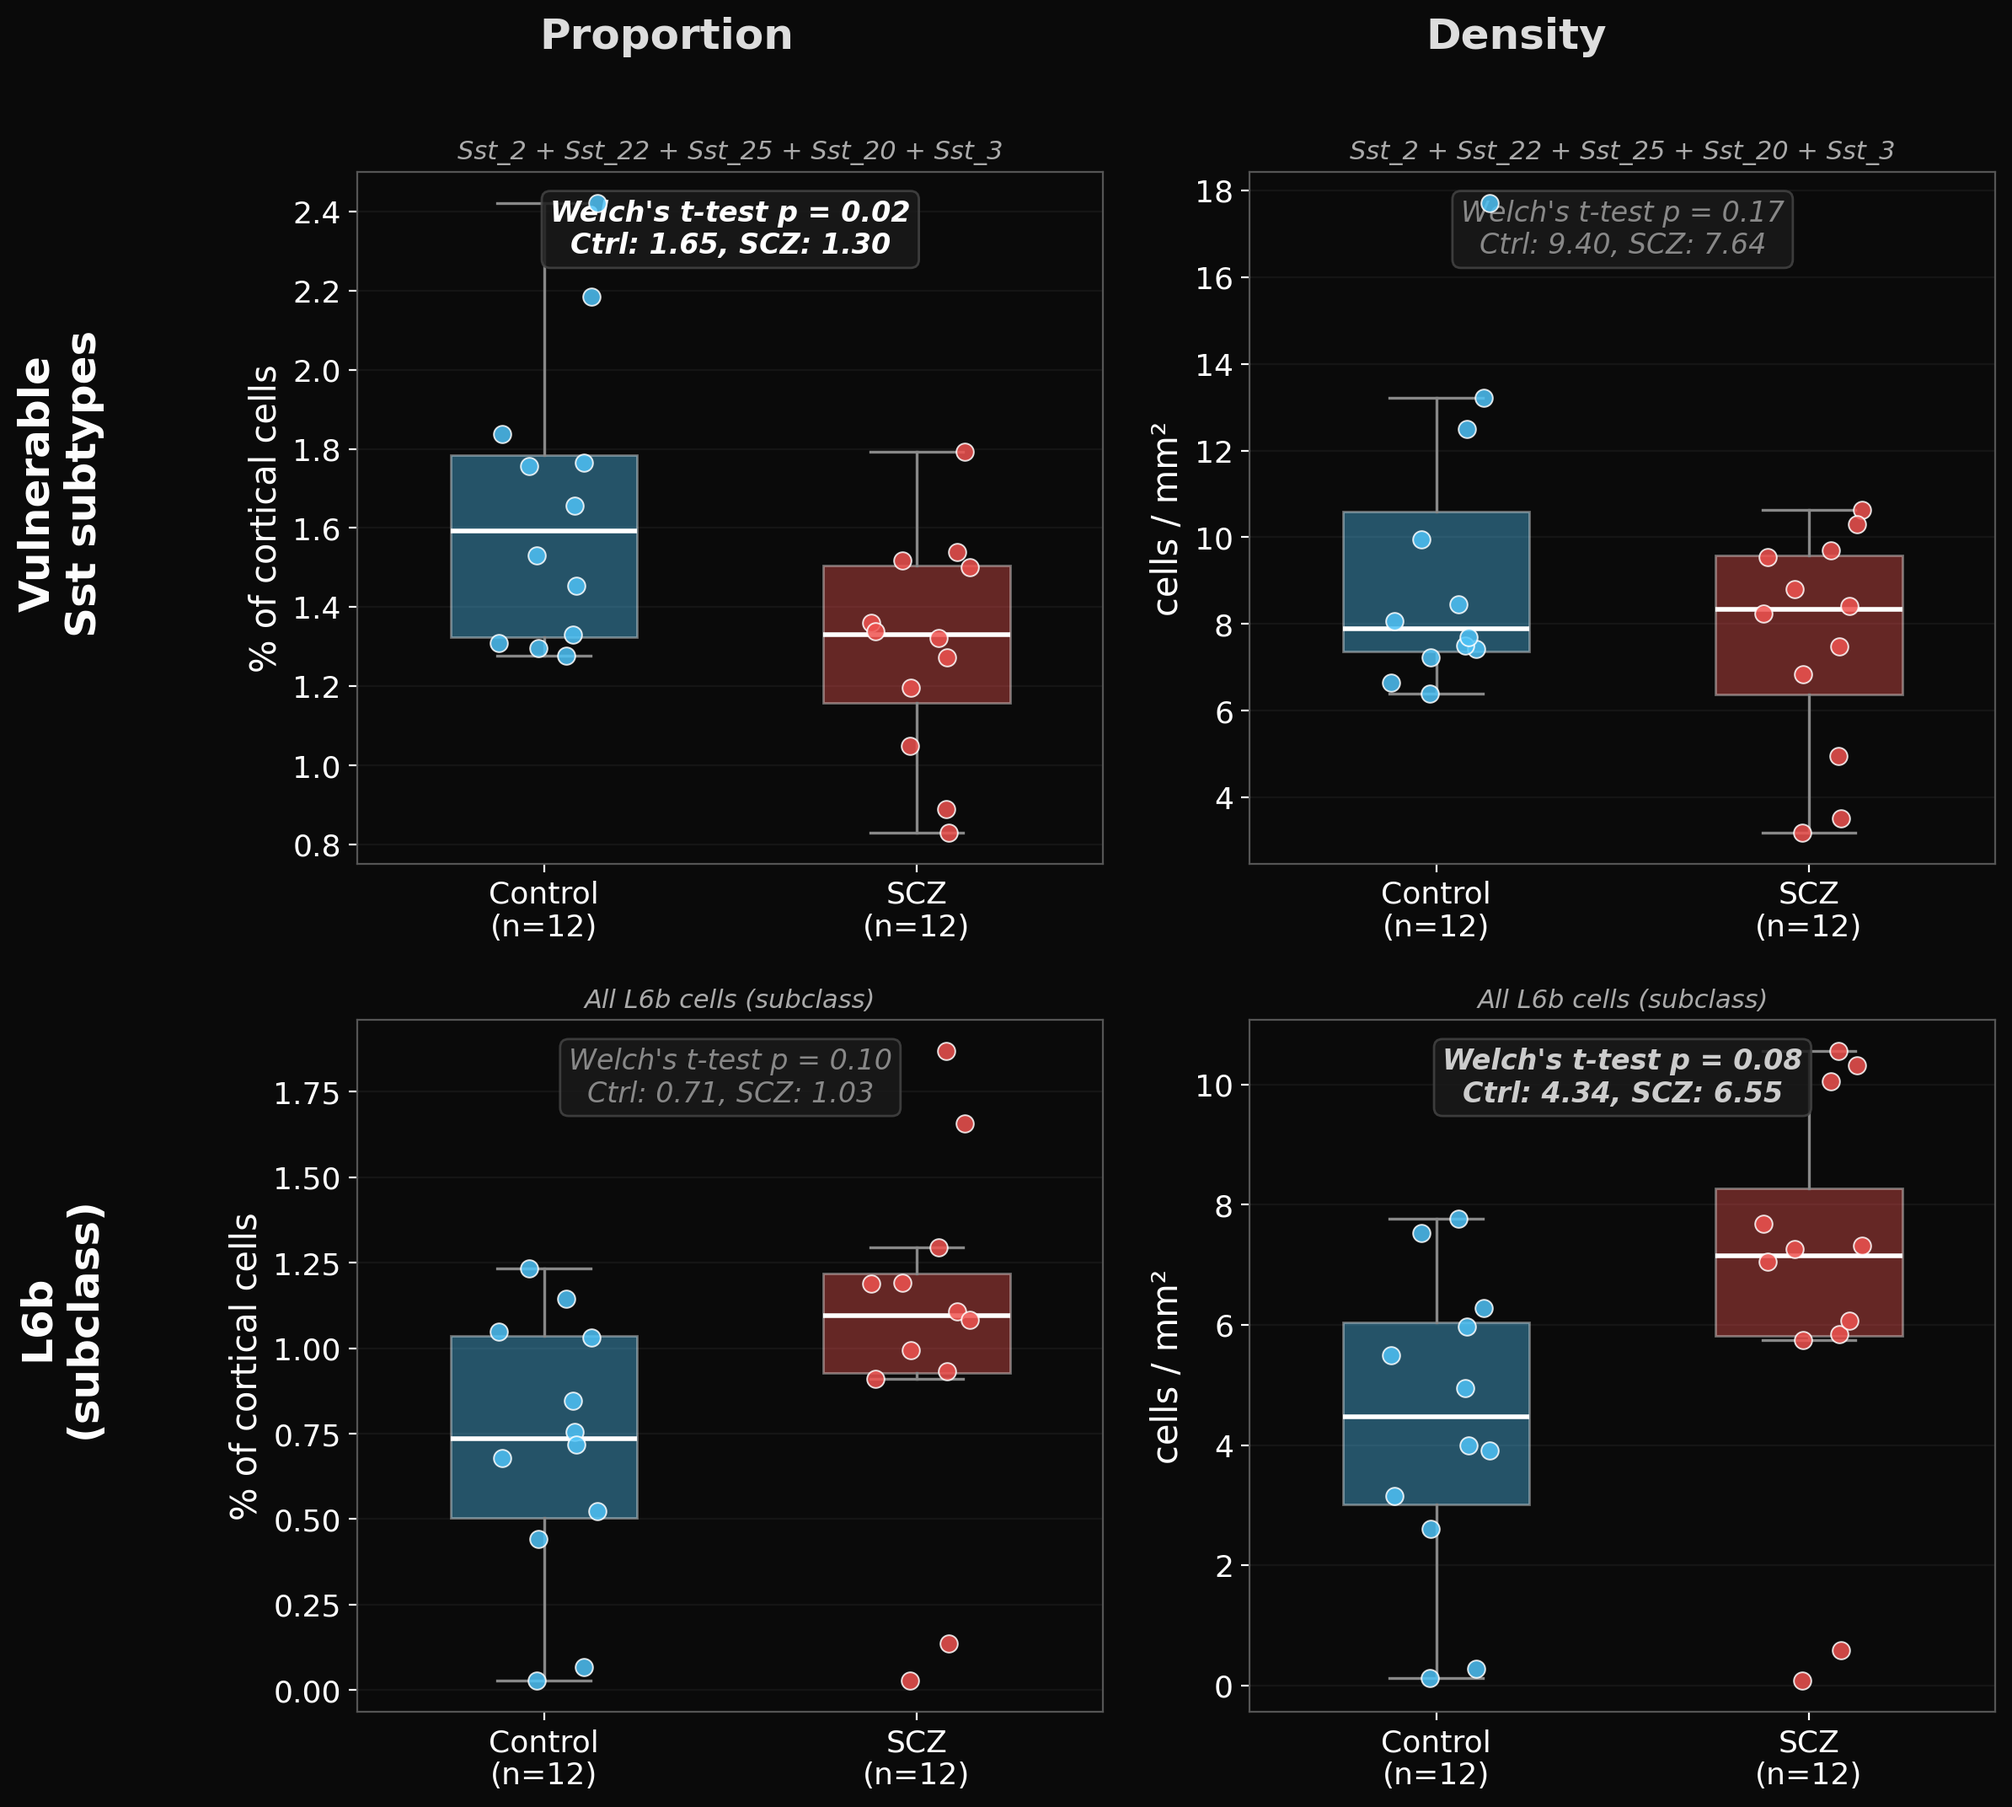
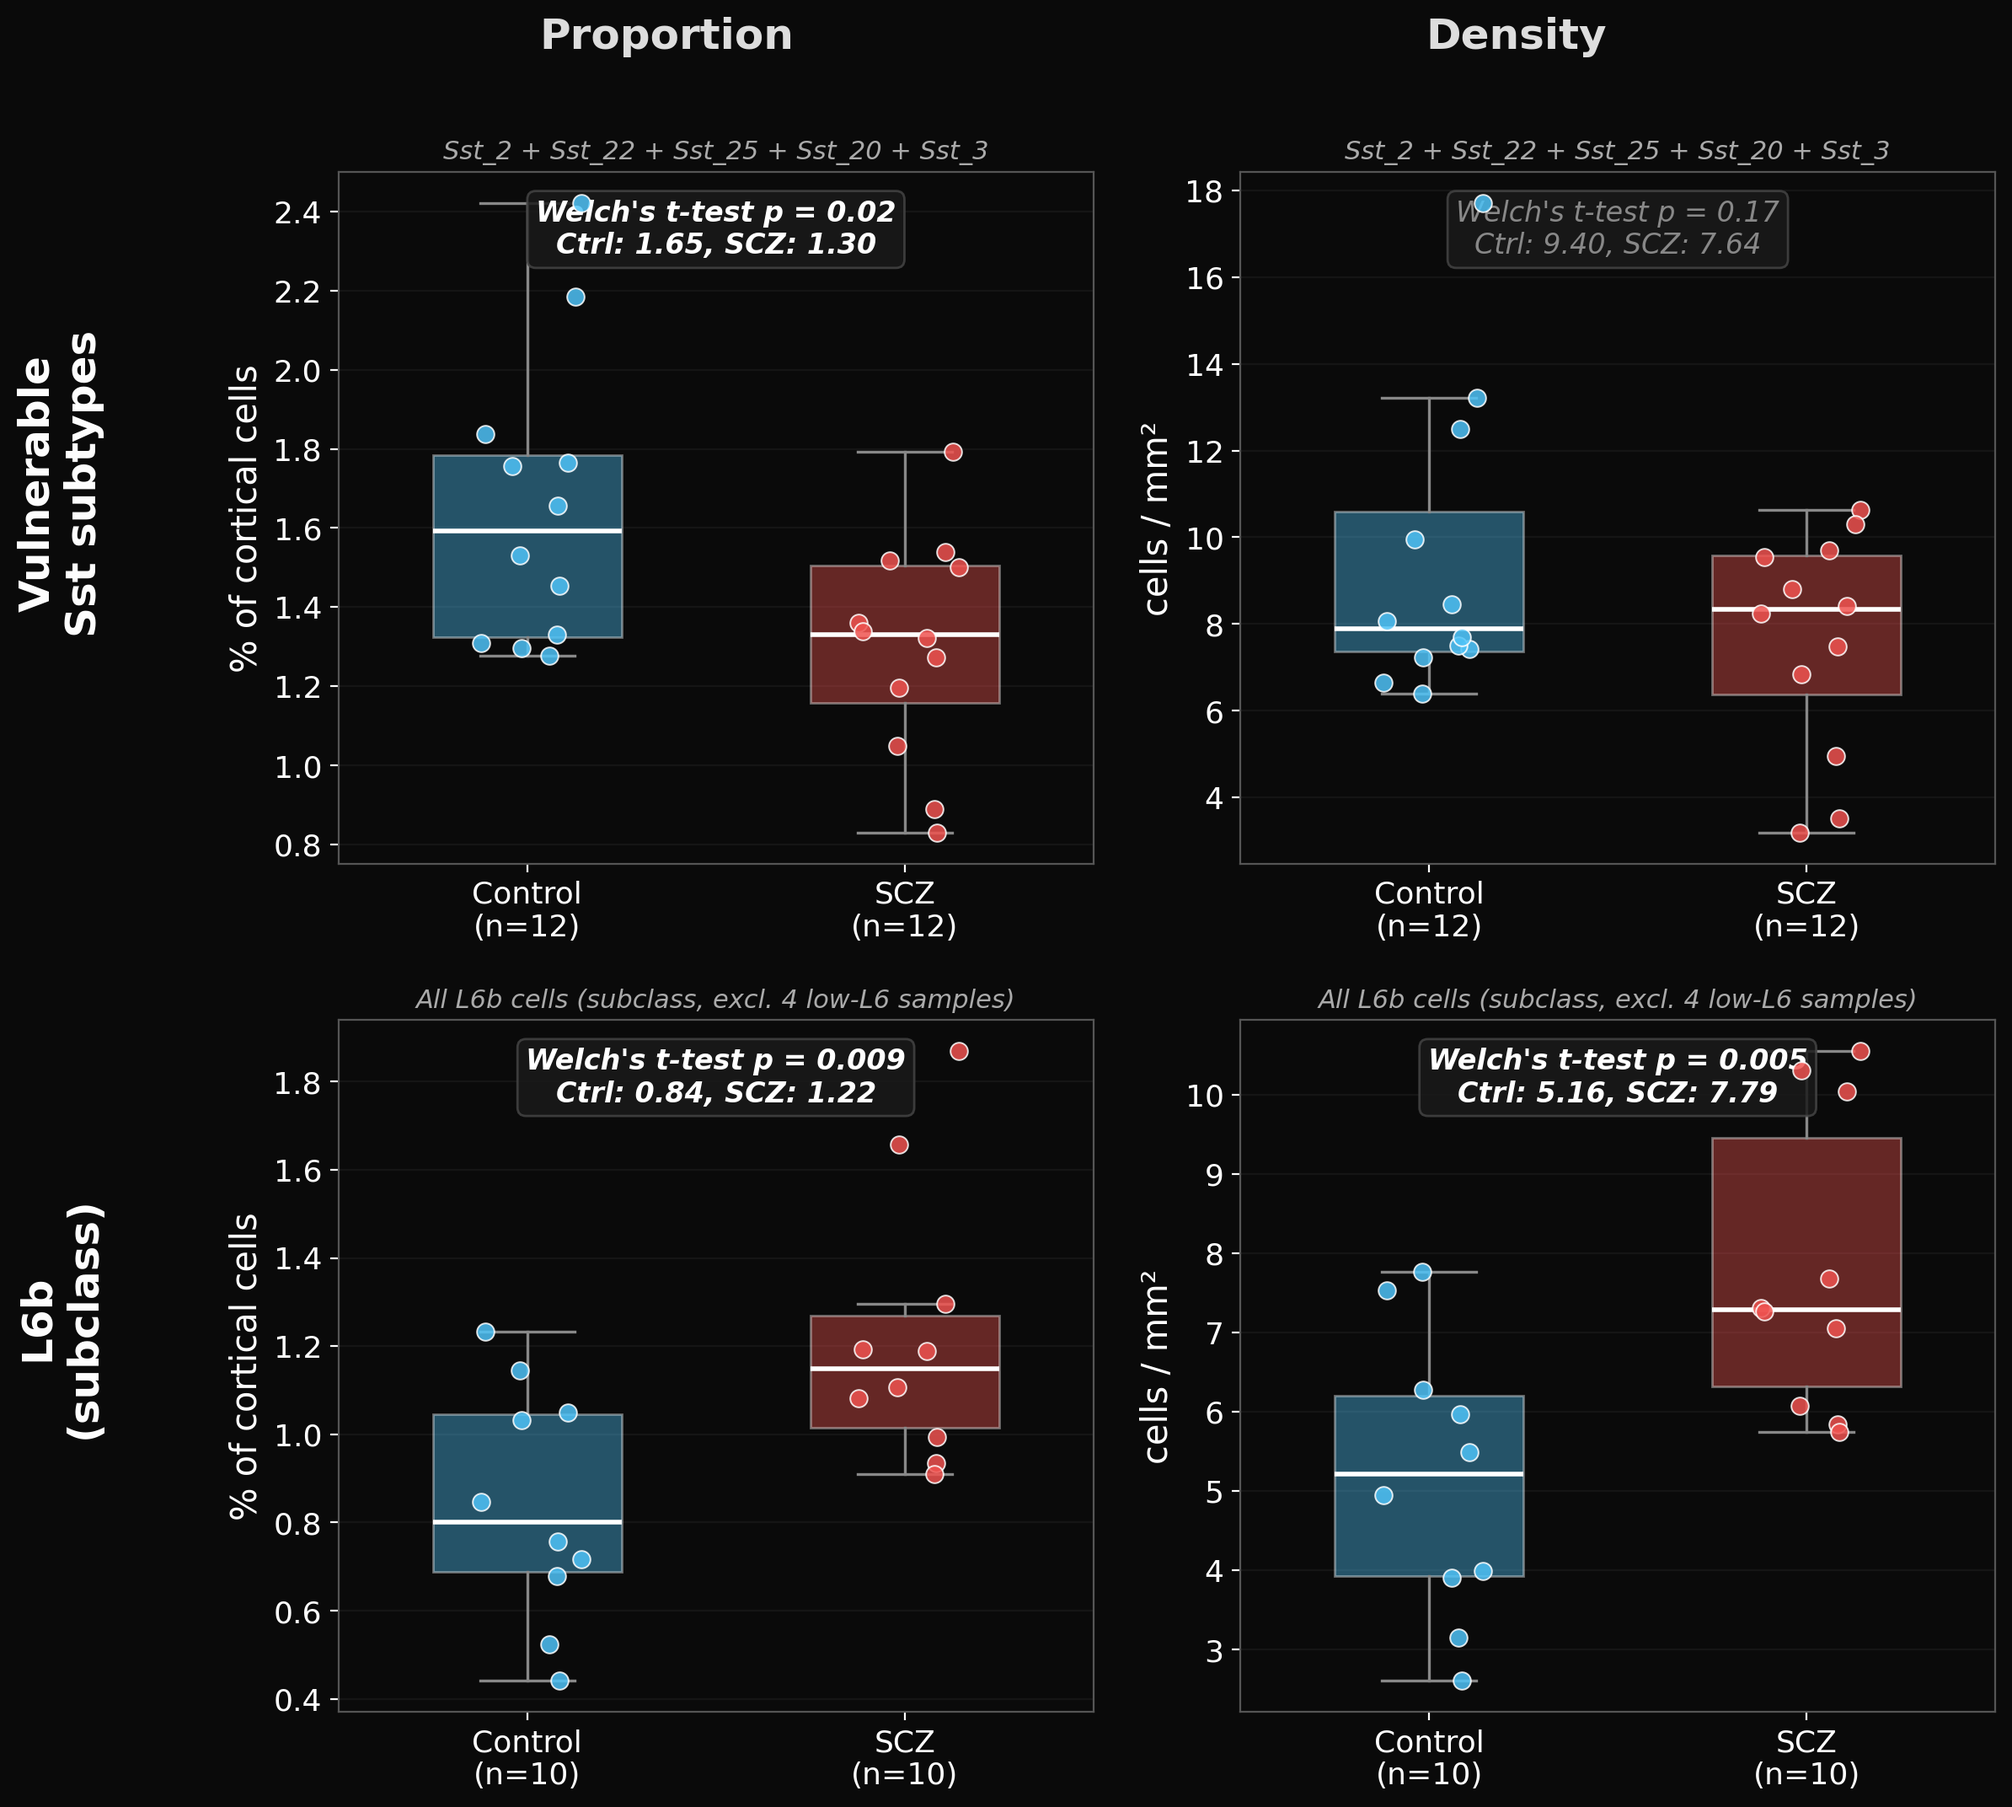
Add Sst_25 spatial plot, exclude low-L6 samples from L6b boxplots
- New Sst_25-only spatial plot with median-representative samples
  (Control: Br5400, Br5314; SCZ: Br6496, Br6437)
- Exclude 4 samples with <3% L6 cells from L6b aggregated boxplots
  (Br2039, Br5973, Br2719, Br5314 lack deep cortex coverage)
- L6b effect strengthens: proportion p=0.009, density p=0.005 (n=10/group)
- Remove incorrect Br2039 exclusion claim from README

diff --git a/code/analysis/plot_sst25_spatial.py b/code/analysis/plot_sst25_spatial.py
@@ -1,0 +1,137 @@
+#!/usr/bin/env python3
+"""
+Sst_25 spatial plot with layer shading for cortical context.
+
+Shows only Sst_25 cells in median-representative samples to illustrate
+the depletion of this specific supertype in SCZ.
+
+Representative samples are chosen as closest to group median Sst_25
+proportion:
+  Control median = 0.199%: Br5400 (0.203%, d=0.005), Br5314 (0.194%, d=0.005)
+  SCZ median     = 0.083%: Br6496 (0.058%, d=0.025), Br6437 (0.107%, d=0.025)
+
+Output: output/presentation/slide_sst25_spatial_layershading.png
+"""
+
+import os
+import matplotlib.pyplot as plt
+import matplotlib.gridspec as gridspec
+from matplotlib.lines import Line2D
+
+import sys
+sys.path.insert(0, os.path.dirname(os.path.abspath(__file__)))
+from config import (
+    PRESENTATION_DIR, BG_COLOR, DX_COLORS,
+    SST_COLORS, CORTICAL_LAYERS,
+    LAYER_COLORS, LAYER_ORDER,
+    load_all_cells, draw_layer_shading, style_dark_axis,
+)
+
+# Sst_25-specific representative samples (closest to group medians)
+SST25_REPRESENTATIVE = [
+    ("Br5400", "Control"),
+    ("Br5314", "Control"),
+    ("Br6496", "SCZ"),
+    ("Br6437", "SCZ"),
+]
+
+SST25_COLOR = SST_COLORS["Sst_25"]
+MARKER_SIZE = 22
+LAYER_ALPHA = 0.12
+
+
+def main():
+    fig = plt.figure(figsize=(16, 14), facecolor=BG_COLOR)
+    gs = gridspec.GridSpec(2, 2, figure=fig,
+                           wspace=0.05, hspace=0.22,
+                           left=0.02, right=0.98, top=0.89, bottom=0.08)
+
+    for idx, (sample_id, diagnosis) in enumerate(SST25_REPRESENTATIVE):
+        row, col = divmod(idx, 2)
+        ax = fig.add_subplot(gs[row, col])
+        ax.set_facecolor(BG_COLOR)
+
+        print(f"Loading {sample_id} ({diagnosis})...")
+        df = load_all_cells(sample_id)
+
+        # All cells with layers for shading
+        shading_layers = {"L1", "L2/3", "L4", "L5", "L6", "WM"}
+        shading_cells = df[df["layer"].isin(shading_layers)]
+
+        # Cortical cells only (L1-L6)
+        cortical = df[df["layer"].isin(CORTICAL_LAYERS)]
+        total_cortical = len(cortical)
+
+        # Draw layer shading (background)
+        draw_layer_shading(ax, shading_cells, alpha=LAYER_ALPHA)
+
+        # Overlay Sst_25 cells
+        mask = cortical["supertype_label"] == "Sst_25"
+        sst25 = cortical[mask]
+        n_sst25 = len(sst25)
+
+        if n_sst25 > 0:
+            ax.scatter(sst25["x"], sst25["y"], s=MARKER_SIZE,
+                       c=SST25_COLOR, alpha=0.9,
+                       linewidths=0.5, edgecolors="white",
+                       zorder=5, rasterized=True)
+
+        pct = n_sst25 / total_cortical * 100 if total_cortical > 0 else 0
+
+        # Title
+        title_color = DX_COLORS[diagnosis]
+        ax.set_title(f"{sample_id} ({diagnosis})", fontsize=16,
+                     fontweight="bold", color=title_color, pad=4)
+
+        # Count annotation
+        count_text = f"Sst_25: {n_sst25} ({pct:.3f}%)\nCortical: {total_cortical:,}"
+        ax.text(0.02, 0.98, count_text, transform=ax.transAxes,
+                ha="left", va="top", fontsize=12, color="#dddddd",
+                fontfamily="monospace",
+                bbox=dict(boxstyle="round,pad=0.4", facecolor="#1a1a1a",
+                          edgecolor="#444444", alpha=0.85))
+
+        style_dark_axis(ax)
+        print(f"  Sst_25: {n_sst25} ({pct:.3f}%)")
+
+    # Row labels
+    fig.text(0.50, 0.905, "Control", ha="center", fontsize=20,
+             fontweight="bold", color=DX_COLORS["Control"])
+    fig.text(0.50, 0.455, "SCZ", ha="center", fontsize=20,
+             fontweight="bold", color=DX_COLORS["SCZ"])
+
+    # Cell type legend (bottom left)
+    sst25_legend = [
+        Line2D([0], [0], marker='o', color=BG_COLOR,
+               markerfacecolor=SST25_COLOR,
+               markeredgecolor="white", markeredgewidth=0.5,
+               markersize=12, label="Sst_25", linewidth=0)
+    ]
+    fig.legend(handles=sst25_legend, loc="lower left", ncol=1,
+               fontsize=13, frameon=False, labelcolor="white",
+               bbox_to_anchor=(0.02, 0.005))
+
+    # Layer legend (bottom right)
+    layer_legend = [
+        Line2D([0], [0], marker='s', color=BG_COLOR,
+               markerfacecolor=LAYER_COLORS[layer],
+               markersize=10, label=layer, linewidth=0, alpha=0.6)
+        for layer in LAYER_ORDER
+    ]
+    fig.legend(handles=layer_legend, loc="lower right", ncol=len(LAYER_ORDER),
+               fontsize=12, frameon=False, labelcolor="white",
+               bbox_to_anchor=(0.98, 0.005))
+
+    fig.suptitle(
+        "Sst_25 in SCZ vs Control (Xenium)",
+        fontsize=22, fontweight="bold", color="white", y=0.96
+    )
+
+    outpath = os.path.join(PRESENTATION_DIR, "slide_sst25_spatial_layershading.png")
+    plt.savefig(outpath, dpi=150, facecolor=BG_COLOR, bbox_inches="tight")
+    plt.close()
+    print(f"\nSaved: {outpath}")
+
+
+if __name__ == "__main__":
+    main()

diff --git a/code/analysis/plot_aggregated_boxplots.py b/code/analysis/plot_aggregated_boxplots.py
@@ -128,9 +128,14 @@ def main():
     sst_label = " + ".join(sst_agg_types)
 
     # ── L6b data from density CSV (all L6b supertypes at subclass level) ──
+    # Exclude samples with very low L6 representation (<3% L6 cells),
+    # which lack sufficient deep cortex tissue coverage for meaningful
+    # L6b comparisons: Br2039 (2.0%), Br5973 (2.4%), Br2719 (3.4%), Br5314 (2.3%)
+    L6B_EXCLUDE = {"Br2039", "Br5973", "Br2719", "Br5314"}
+
     raw = pd.read_csv(DENSITY_RAW)
     raw = raw[raw["region"] == "cortical"]
-    raw = raw[~raw["sample_id"].isin(EXCLUDE_SAMPLES)]
+    raw = raw[~raw["sample_id"].isin(EXCLUDE_SAMPLES | L6B_EXCLUDE)]
 
     # Rename to match expected columns
     raw = raw.rename(columns={"supertype": "celltype"})
@@ -140,10 +145,11 @@ def main():
 
     l6b_types_found = sorted(raw[raw["celltype"].str.startswith("L6b_")]["celltype"].unique())
     print(f"L6b supertypes found: {l6b_types_found}")
+    print(f"L6b samples excluded (low L6 coverage): {sorted(L6B_EXCLUDE)}")
 
     l6b_prop = aggregate_by_prefix(raw, "L6b", "proportion_pct")
     l6b_dens = aggregate_by_prefix(raw, "L6b", "density_per_mm2")
-    l6b_label = "All L6b cells (subclass)"
+    l6b_label = "All L6b cells (subclass, excl. 4 low-L6 samples)"
 
     # --- Figure ---
     fig, axes = plt.subplots(2, 2, figsize=(12, 11), facecolor=BG)

diff --git a/scz_compositional_findings.md b/scz_compositional_findings.md
@@ -56,7 +56,7 @@ The Sst subclass is particularly vulnerable because the 300-gene panel contains 
 *Figure 4: Same supertypes, density (cells/mm²). Density effects tend to be larger and more consistent than compositional effects.*
 
 ![Aggregated supertype effects](output/presentation/slide_aggregated_boxplots.png)
-*Figure 5: Aggregated effects for vulnerable Sst subtypes (Sst_2 + Sst_22 + Sst_25 + Sst_20 + Sst_3, top) and all L6b cells at subclass level (bottom). Sst depletion: proportion p = 0.02, density p = 0.17. L6b increase: proportion p = 0.10, density p = 0.08.*
+*Figure 5: Aggregated effects for vulnerable Sst subtypes (Sst_2 + Sst_22 + Sst_25 + Sst_20 + Sst_3, top, n=12/group) and all L6b cells at subclass level (bottom, n=10/group). Sst depletion: proportion p = 0.02, density p = 0.17. L6b increase: proportion p = 0.009, density p = 0.005. For L6b, 4 samples with insufficient deep cortex coverage (<3% L6 cells: Br2039, Br5973, Br2719, Br5314) were excluded.*
 
 ![Sst spatial distribution](output/presentation/slide_sst_spatial_layershading.png)
 *Figure 6: Spatial distribution of vulnerable Sst subtypes in median-representative Control (top) and SCZ (bottom) sections. Samples chosen as closest to group median Sst proportion (Control: Br1113, Br2719; SCZ: Br5373, Br6032). Layer boundaries shown as colored bands.*
@@ -120,7 +120,8 @@ These show consistent trends but do not reach FDR significance in all analyses:
 
 **L6b subclass increase:**
 - All L6b supertypes (L6b_1–L6b_6) aggregated at subclass level show increased proportion and density in SCZ
-- Aggregated L6b effect: p = 0.10 (proportion), p = 0.08 (density) — see Figure 5
+- Aggregated L6b effect (excluding 4 samples with <3% L6 cells): p = 0.009 (proportion), p = 0.005 (density) — see Figure 5
+- Effect is attenuated (p ~ 0.07) when including samples with insufficient deep cortex coverage, which contribute near-zero L6b counts
 - Concordant with snRNA-seq meta-analysis direction
 - But L6b classification has known issues (7.2% still misplaced in upper layers)
 

diff --git a/README.md b/README.md
@@ -241,8 +241,6 @@ open output/viewer/xenium_viewer_standalone.html
 
 **Note:** Steps 04-05 use multiprocessing (4 workers by default, configurable in `pipeline_config.py`). The full pipeline processes ~1.34M cells across 24 samples. Step 04 (depth model training) is the most time-intensive (~80 min). Total pipeline runtime is approximately 2-3 hours.
 
-The Br2039 sample (65% white matter, SCZ) is processed through the full pipeline but excluded from disease comparisons in analysis scripts via `EXCLUDE_SAMPLES` due to its atypical tissue composition.
-
 ## Web Viewer & Deployment
 
 The interactive spatial viewer can be run locally or deployed to Netlify.
